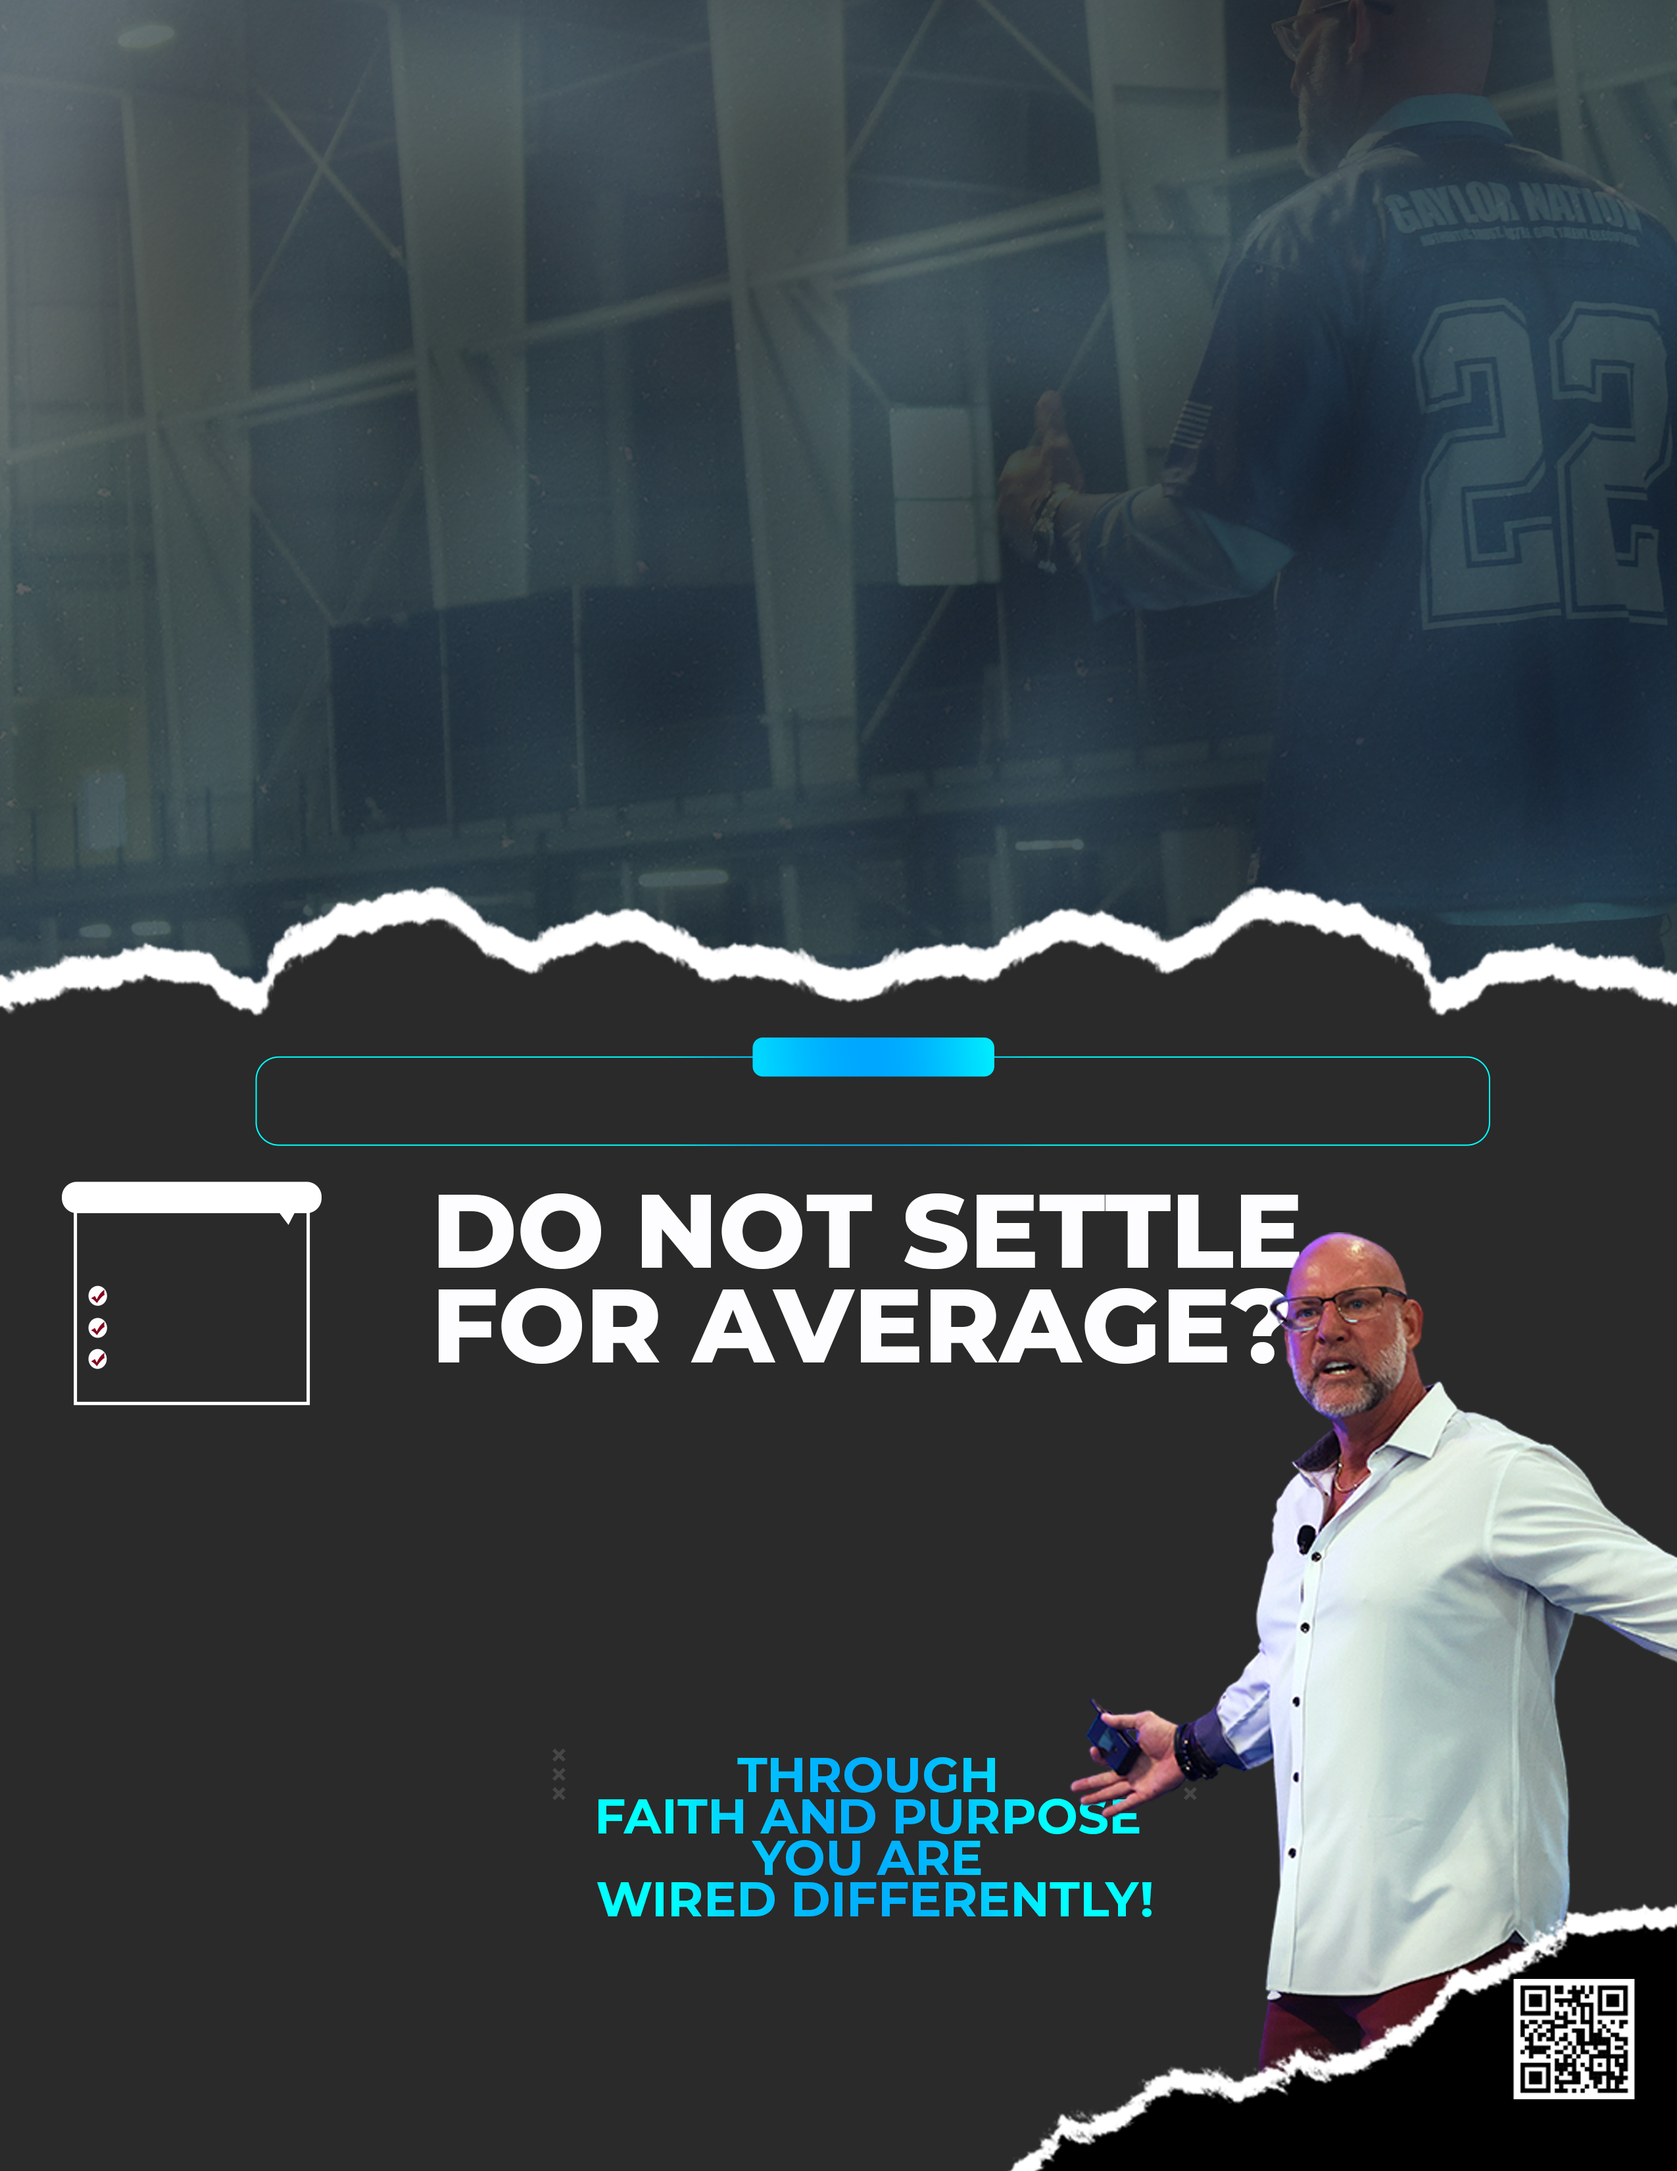
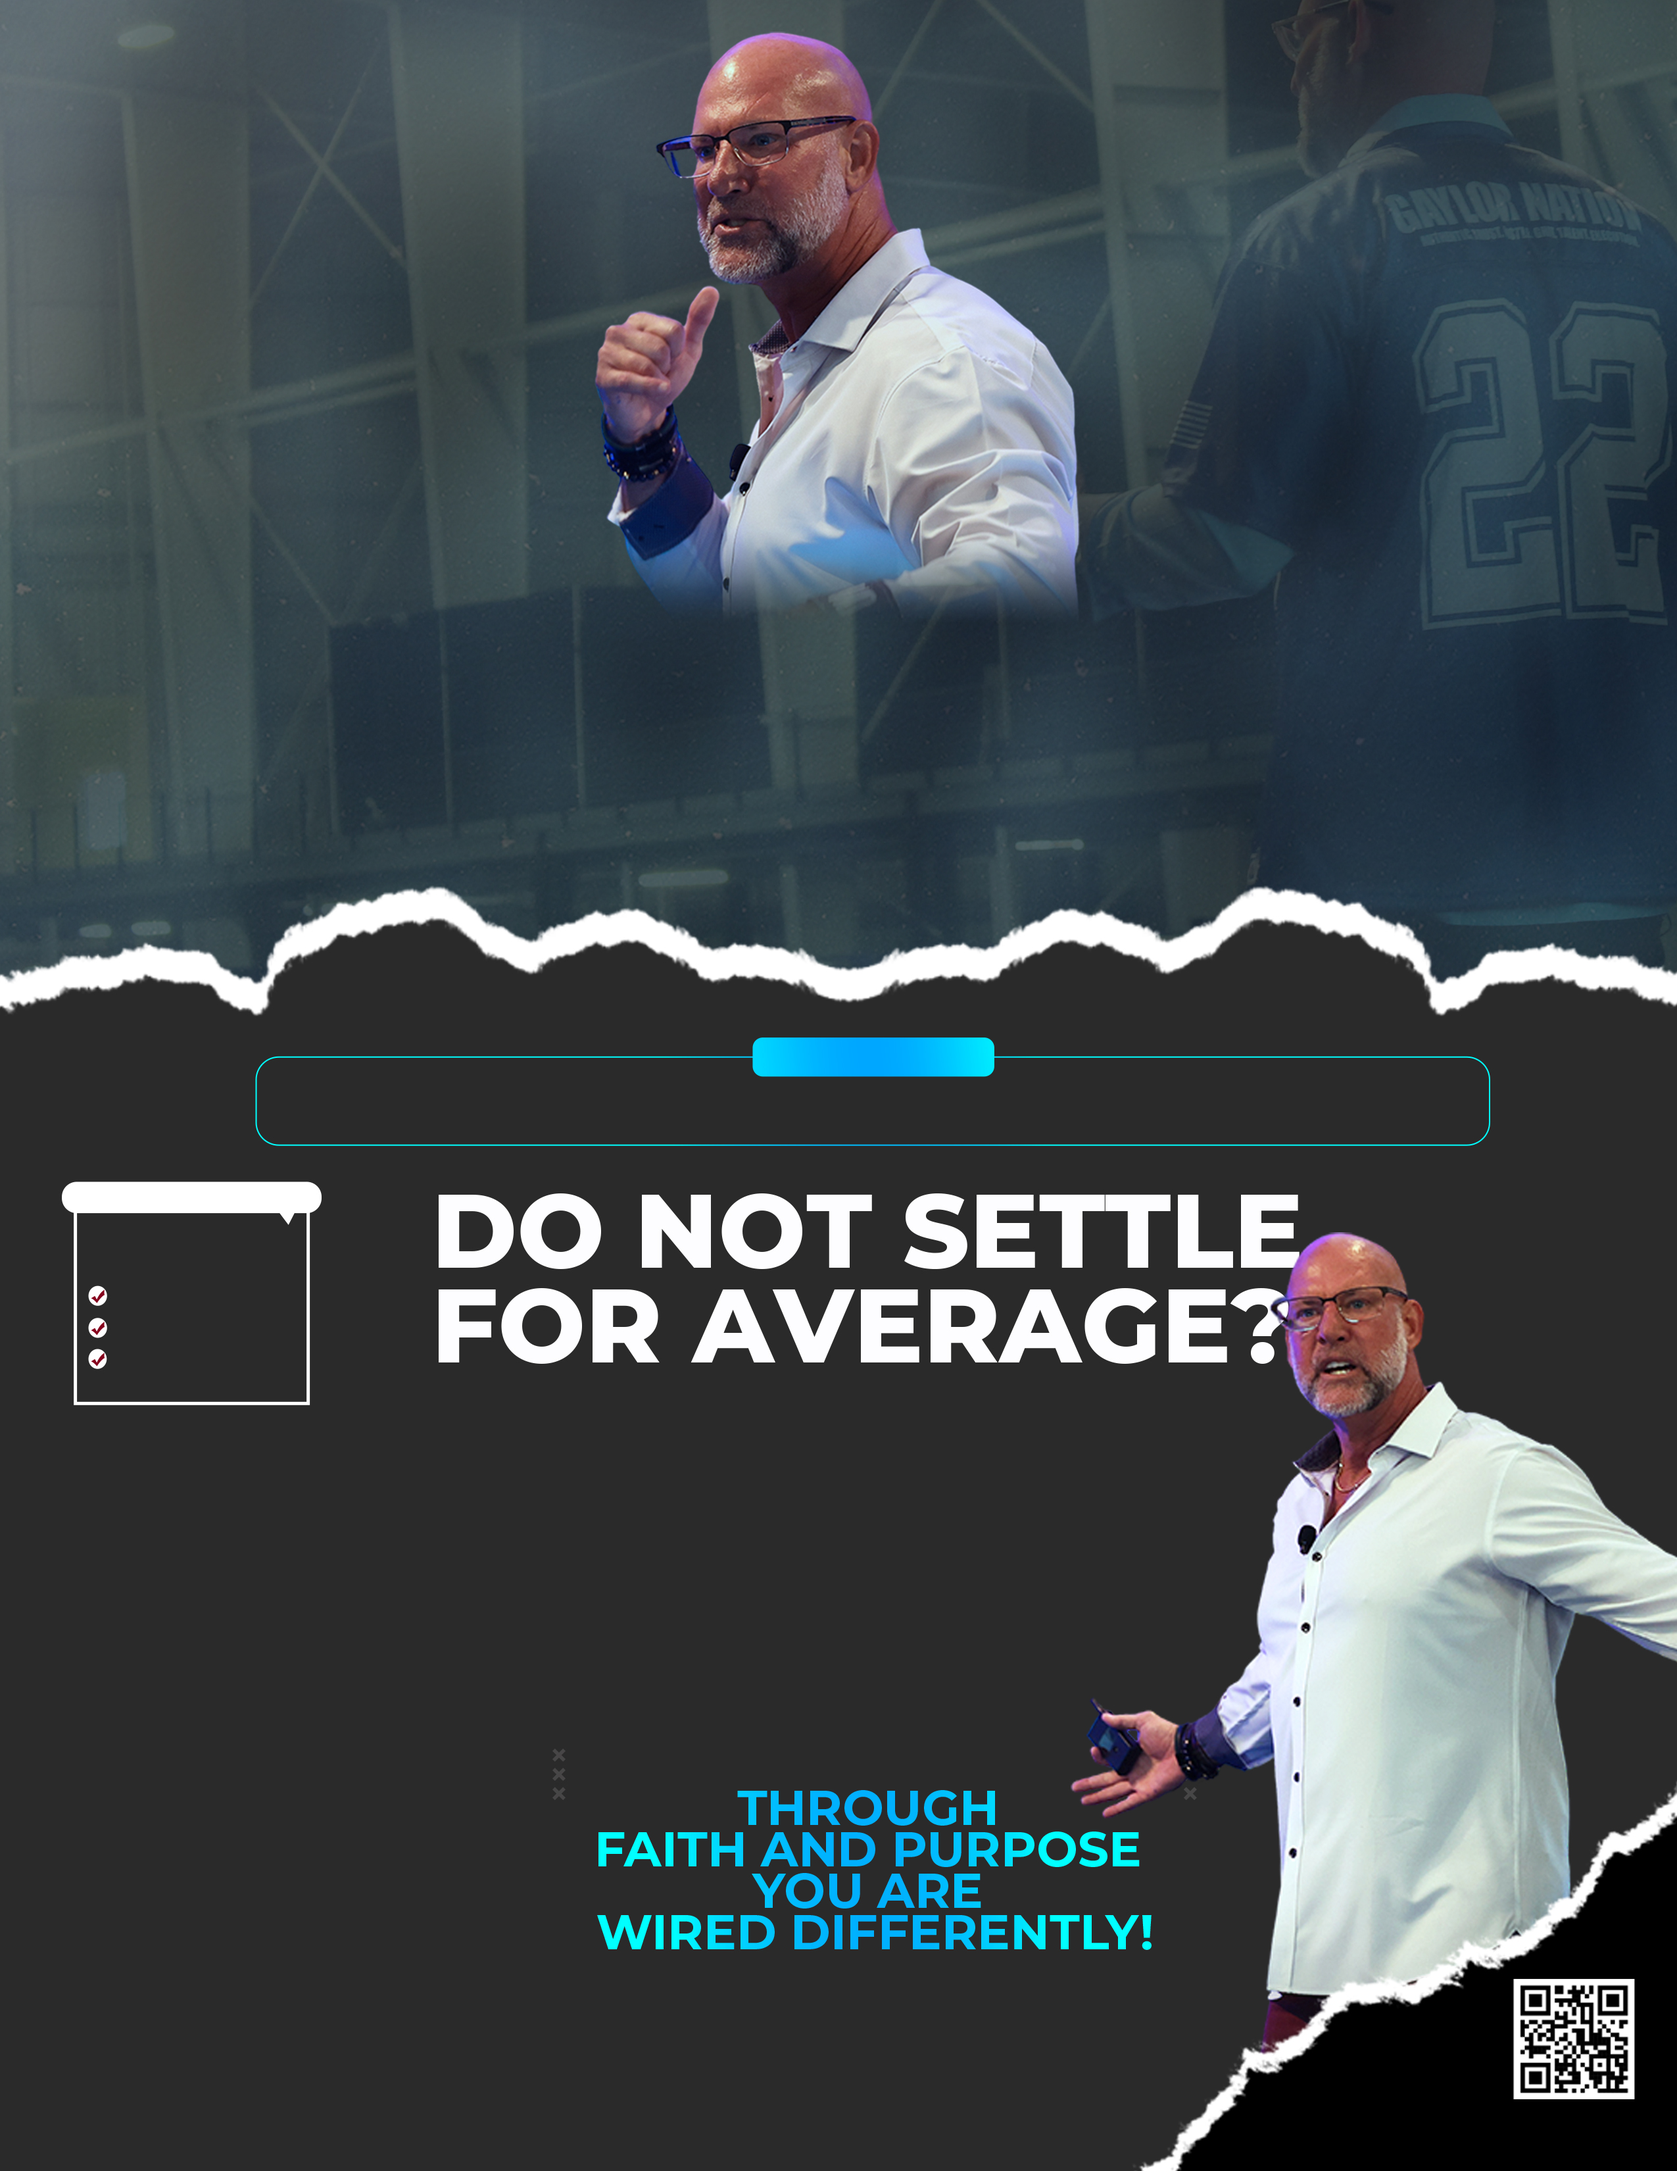
added left images

diff --git a/css/style.css b/css/style.css
@@ -4,14 +4,16 @@
     font-family: 'Cerebri Sans', sans-serif;
 
 }
-.bebas-neue{
+
+.bebas-neue {
     font-family: 'Bebas Neue', cursive;
 }
+
 .montserrat {
     font-family: 'Montserrat', sans-serif;
 }
 
-.poppins{
+.poppins {
     font-family: 'Poppins', sans-serif;
 }
 
@@ -33,7 +35,7 @@ p {
     width: 8.5in;
     height: 11in;
     overflow: hidden;
-    background-image: url('../images/bg4.jpg');
+    background-image: url('../images/bg2.jpg');
     background-size: cover;
 }
 
@@ -79,12 +81,14 @@ p {
     margin-top: 50px;
 }
 
-.top-right-area{
+.top-right-area {
     margin-top: 20px;
 }
-.top-right-area >p{
+
+.top-right-area>p {
     font-size: 8.14pt;
 }
+
 .top-img {
     width: 297px;
 }
@@ -185,10 +189,12 @@ p {
     top: -130px;
 
 }
-.round-image-left{
+
+.round-image-left {
     margin-left: 0.31in;
 }
-.about-todd-title{
+
+.about-todd-title {
     font-size: 16pt;
 }
 
@@ -198,12 +204,13 @@ p {
 }
 
 
-.purposefull-text{
+.purposefull-text {
     margin-left: 0.5in;
     text-align: center;
     margin-top: 100px;
 }
-.footer{
+
+.footer {
     display: flex;
     justify-content: space-between;
     margin-top: -180px;
@@ -211,9 +218,20 @@ p {
     margin-right: 0.15in;
 }
 
-.video-area{
+.video-area {
     height: 175px;
     width: 300px;
     margin-left: 75px;
-    background-color: aqua;
+}
+
+.video-area>img {
+    /* width: 32%;
+    position: absolute;
+    top: -79px;
+    left: 587px; */
+
+    width: 36%;
+    position: absolute;
+    top: -123px;
+    left: 582px;
 }

diff --git a/index.html b/index.html
@@ -143,6 +143,7 @@
                 </p>
 
             </div>
+           
             <div class="round-images-parent">
                 <div class="round-image-child">
                     <div class="video-area">
@@ -150,6 +151,7 @@
                             title="YouTube video player" frameborder="0"
                             allow="accelerometer; autoplay; clipboard-write; encrypted-media; gyroscope; picture-in-picture"
                             allowfullscreen></iframe>
+                            <img src="images/corner-img.png" alt="" class="">
                     </div>
                 </div>
                 <div class="purposefull-text">
@@ -166,7 +168,11 @@
                         and engaged.
                     </P>
                 </div>
+                  
+
             </div>
+
+            <!-- ============================== -->
         </div>
 
         <footer class="footer">
